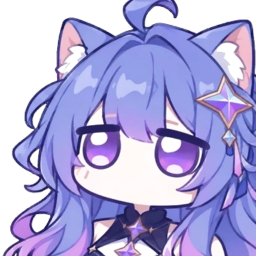
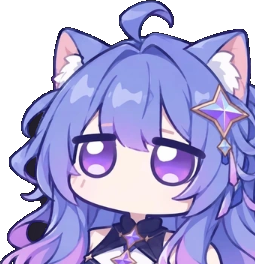
assets: 图标换成作者提供的透明立绘（255x264）
上一版是我用 flood-fill 从 idle.webp 抠的，沿着白色高光的连通路径
漏进了人物内部——脸上和头发上有透明的洞。深色底上一眼就能看出来，
我当时只检查了边缘，没有检查人物内部，判断失误。

本次直接使用作者提供的 character-transparent.png，原样替换、不做任何处理：
- sha256 与源文件逐字节一致（20b189932f0e...）
- RGBA，四角 alpha=0
- 人物完整，无破洞

文档三处尺寸描述同步 256x256 -> 255x264。

diff --git a/docs/MARKET.md b/docs/MARKET.md
@@ -53,7 +53,7 @@ icon: https://raw.githubusercontent.com/Applepinea/dsh-gemini-widget/main/assets
 | 仓库创建满 **1 天** | ⚠ **未达标** | 建于 2026-11-27 12:24 UTC，需等到 **11-28 12:24 UTC** |
 | 仓库带 `dsh-plugin` topic | ✅ | 已设置 |
 | 描述属实、不夸大 | ✅ | 未写任何数字或营销词，逐条对应代码 |
-| `icon` 是 GitHub 图床位图 | ✅ | `assets/icon.png`，256×256 PNG（透明底） |
+| `icon` 是 GitHub 图床位图 | ✅ | `assets/icon.png`，255×264 PNG（透明底） |
 
 ---
 
@@ -61,7 +61,7 @@ icon: https://raw.githubusercontent.com/Applepinea/dsh-gemini-widget/main/assets
 
 | 材料 | 位置 | 用途 |
 |---|---|---|
-| 图标 256×256 PNG | `assets/icon.png` | 市场卡片图（YAML 的 `icon` 字段） |
+| 图标 255×264 PNG | `assets/icon.png` | 市场卡片图（YAML 的 `icon` 字段） |
 | 界面截图 ×4 | `docs/screenshot-*.png` | README 展示；市场打开安装弹窗时从 README 自动抽取 |
 | 预览页 | `docs/demo.html` | 截图来源，加载真实 `neko-widget.js`，可随时重拍 |
 | YAML 草稿 | `docs/market-entry.yml` | 提 PR 的内容 |

diff --git a/CHANGELOG.md b/CHANGELOG.md
@@ -7,7 +7,7 @@
 - 文案：角色名统一为 **Gemini娘**，移除「观察窗 / 观察台」措辞
 - README 安装改为按来源分节：npm / GitHub（源码与 Release 包）/ 插件市场 / 桌面端 / 本地开发
 
-- 新增：市场卡片图标 `assets/icon.png`（256×256 PNG，透明底）
+- 新增：市场卡片图标 `assets/icon.png`（255×264 PNG，透明底）
 - 新增：`docs/` 界面截图与可复现的预览页 `docs/demo.html`
 - 新增：上架材料清单 `docs/MARKET.md` 与条目草稿 `docs/market-entry.yml`
 - 新增：`scripts/check.mjs` 校验 `icon` 存在且为位图、`docs` 不进发布包
